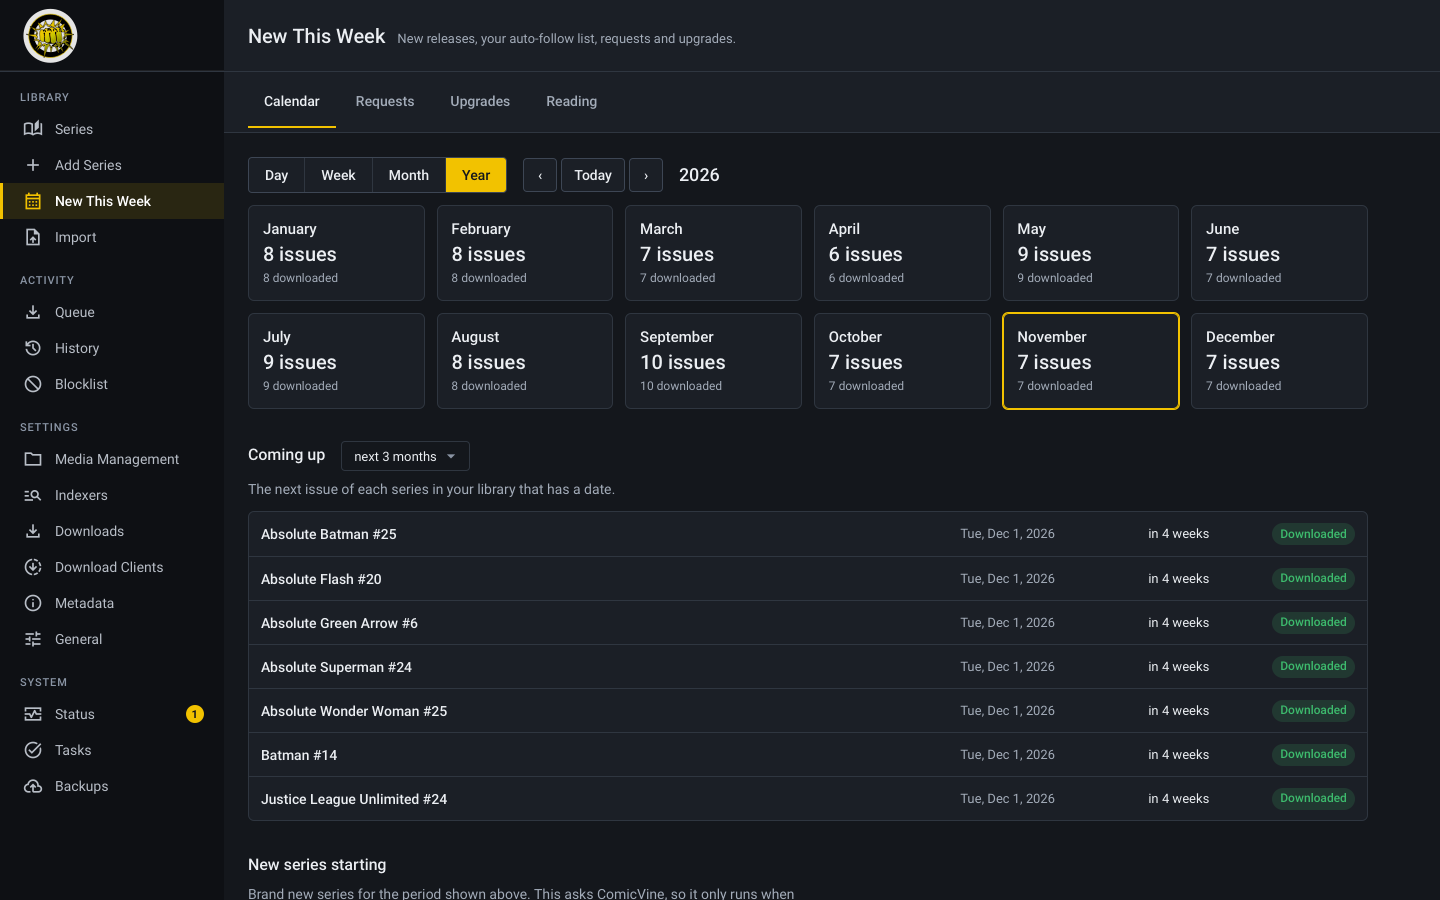
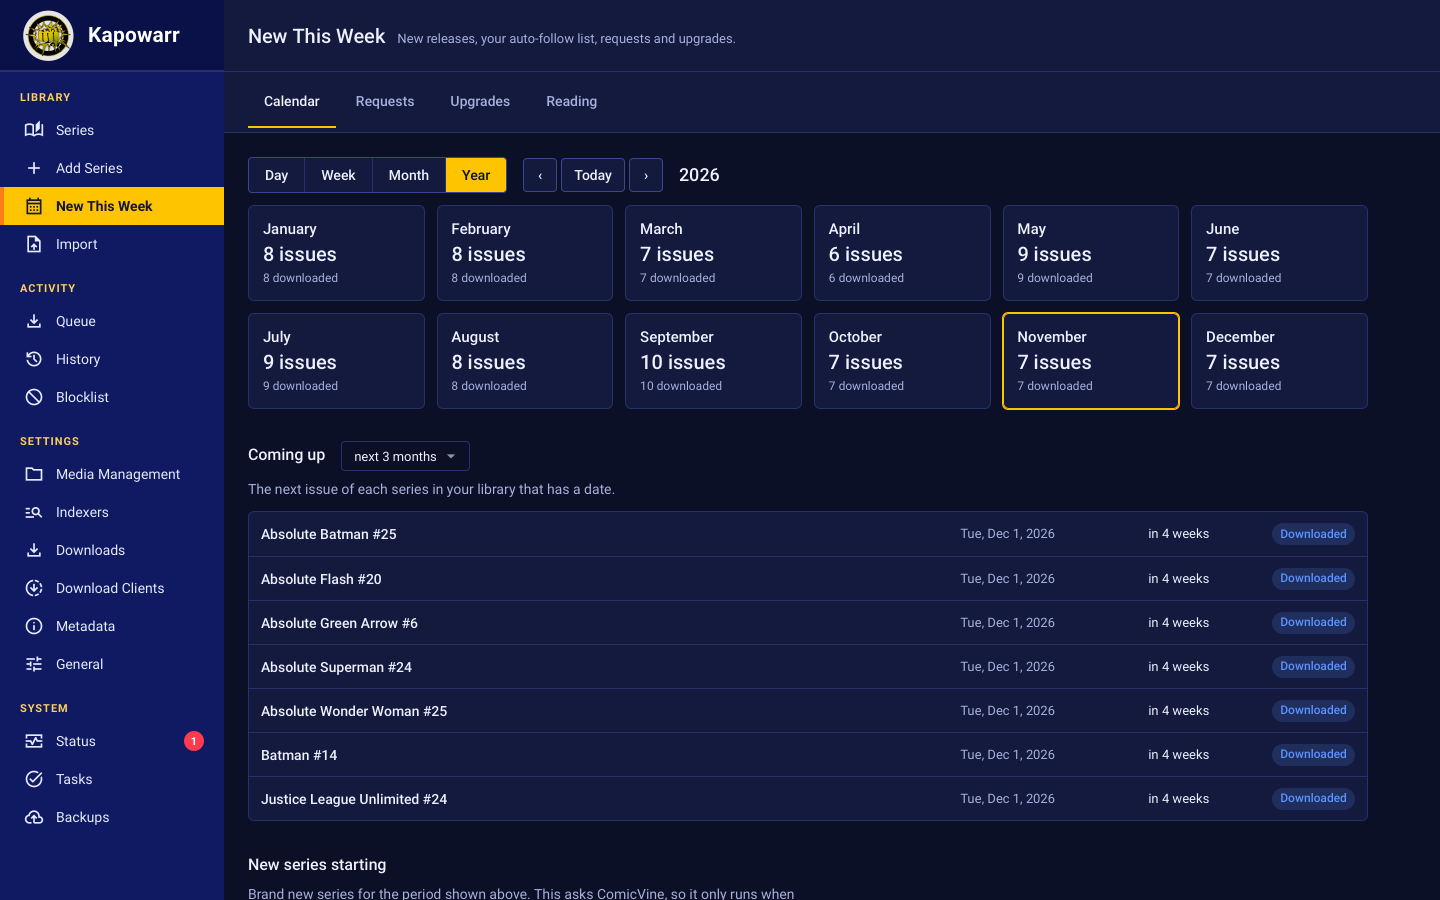
Docs: Kapowarr screenshots with the new vivid look

diff --git a/CHANGELOG.md b/CHANGELOG.md
@@ -3,7 +3,7 @@
 ## Kapowarr: a better calendar, a steadier look
 
 1. **New This Week** is now a real calendar with **Day, Week, Month and Year** views, a **Coming up** list that shows the next issue of every series ("in 4 weeks"), and states in words (Downloaded, Wanted, Not out yet, Not monitored). It works from the dates your library already knows, and only asks ComicVine for new series when you press a button.
-2. One colour family for light and dark, so text, buttons and cards read well in both. The logo stands alone at the top of the menu.
+2. A bold, bright look: a royal-blue menu with the large logo and the name, yellow for where you are and what to press, and blue, orange and red for "have it", "partly there" and "missing". Dark mode is deep navy, not grey. Every state also has a word.
 3. Checked in Safari as well as Chrome.
 
 ## Manga: one folder
